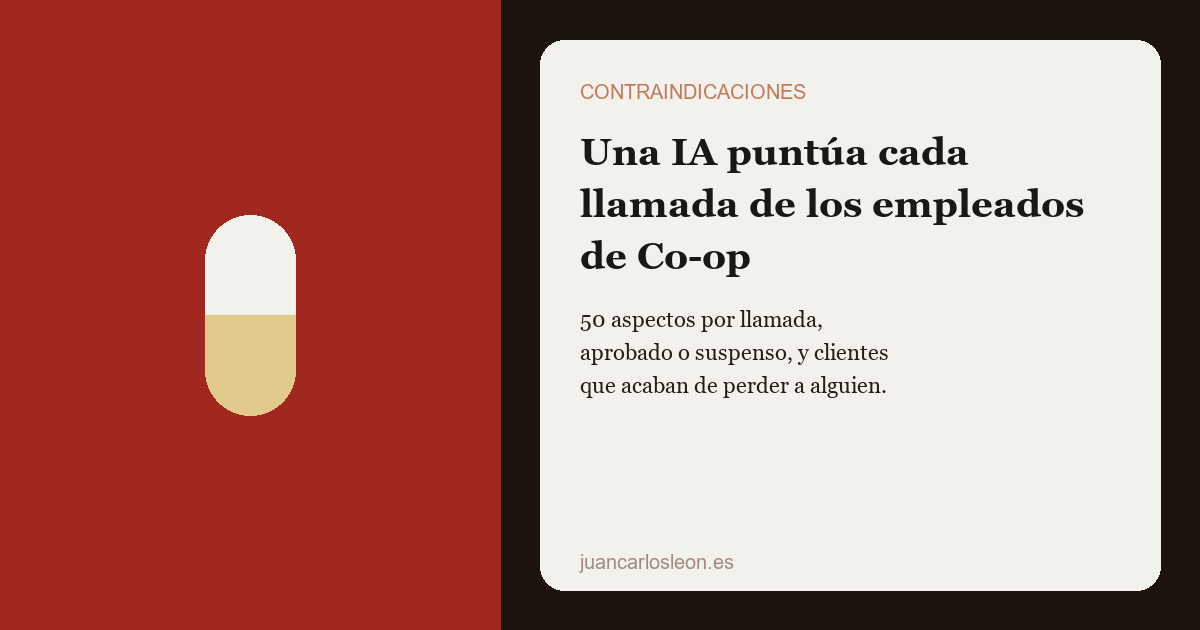
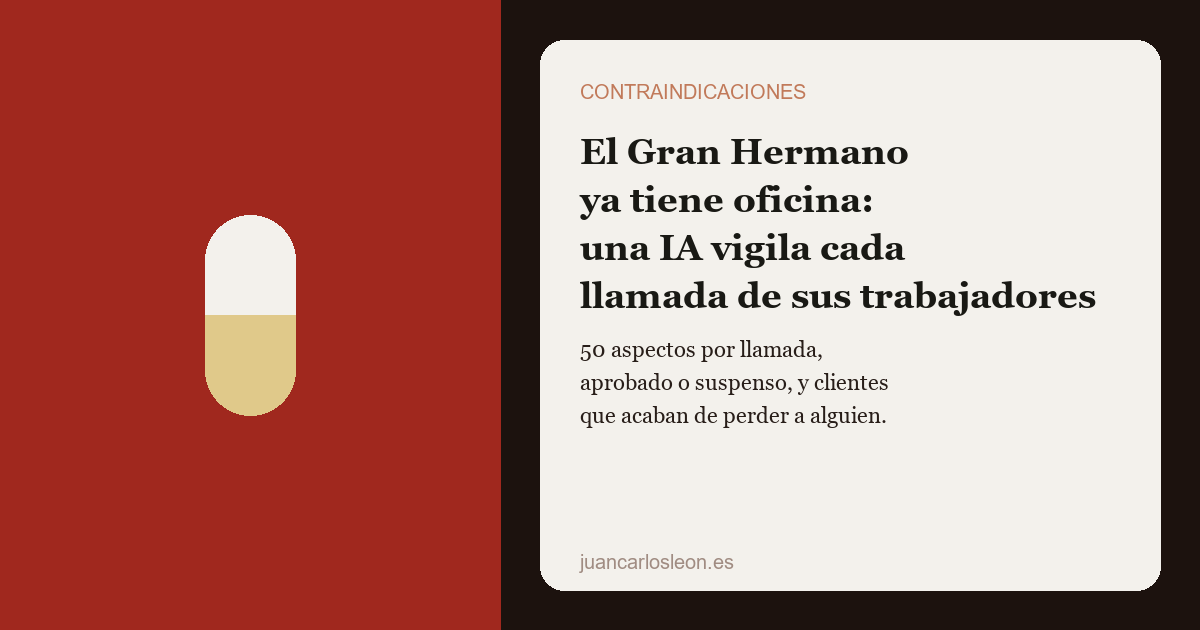
Retitle Co-op post (Gran Hermano angle) and regenerate OG image

Changed region(s): [[0.4625, 0.3016, 0.925, 0.573], [0.4625, 0.6032, 0.74, 0.6937], [0.4933, 0.2111, 0.8017, 0.2714]]

diff --git a/src/content/contraindicaciones/co-op-vigilancia-ia-empleados.md b/src/content/contraindicaciones/co-op-vigilancia-ia-empleados.md
@@ -1,14 +1,14 @@
 ---
-title: 'Una IA puntúa cada llamada de los empleados de Co-op. Los clientes están de luto'
+title: 'El Gran Hermano ya tiene oficina: una IA vigila cada llamada de sus trabajadores'
 draft: true
-description: 'Co-op Legal Services graba y califica con IA cada conversación sobre herencias y testamentos. Un trabajador lo llama "distópico". La empresa dice que es "apoyo".'
+description: 'Una cooperativa británica con supermercados, funerarias y servicios jurídicos califica con IA cada llamada sobre herencias. Un trabajador lo llama "distópico".'
 pubDate: 2026-10-09
 fuente: The Guardian
 urlFuente: https://bdnews24.com/technology/mimfpbdq7v
 heroImage: ../../assets/og-co-op-vigilancia-ia.png
 ---
 
-Imagina que trabajas atendiendo llamadas de gente que acaba de perder a un familiar y necesita ayuda con el testamento. Y que, durante varias horas al día, un modelo de OpenAI escucha cada palabra, evalúa más de 50 aspectos de la conversación y le pasa a tu jefe un aprobado o un suspenso. Es lo que, según The Guardian, está ocurriendo en **Co-op Legal Services**, la división jurídica de la cooperativa británica.
+Imagina que trabajas atendiendo llamadas de gente que acaba de perder a un familiar y necesita ayuda con el testamento. Y que, durante varias horas al día, un modelo de OpenAI escucha cada palabra, evalúa más de 50 aspectos de la conversación y le pasa a tu jefe un aprobado o un suspenso. Es lo que, según The Guardian, está ocurriendo en **Co-op Legal Services**, la división jurídica de Co-op, una gran cooperativa británica que gestiona supermercados, funerarias, seguros y servicios legales.
 
 El sistema graba, analiza y asigna una puntuación porcentual a cada llamada. Se ha desplegado en los últimos meses entre decenas de empleados y se usa, en parte, para encontrar formas de mejorar el rendimiento en ventas. Un trabajador, bajo anonimato, lo resume sin florituras: "Te están monitorizando absolutamente cada palabra que dices [...] Es una sensación realmente distópica. Es el principio del fin".
 
